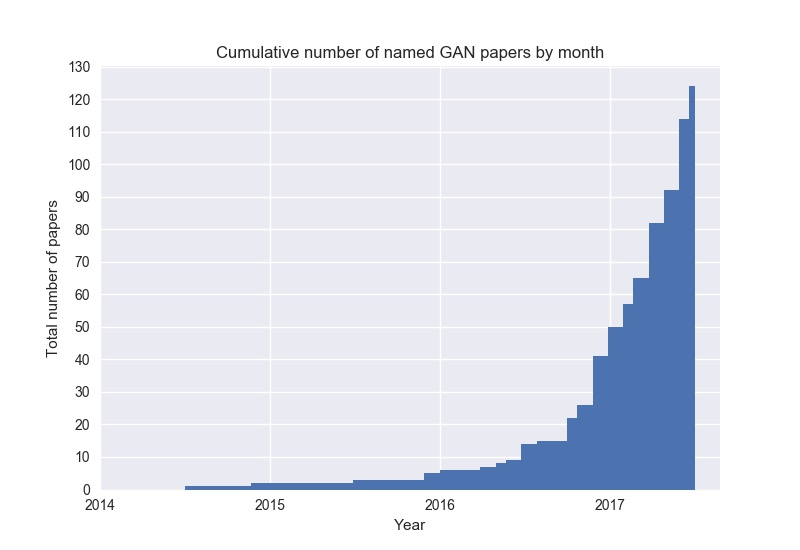
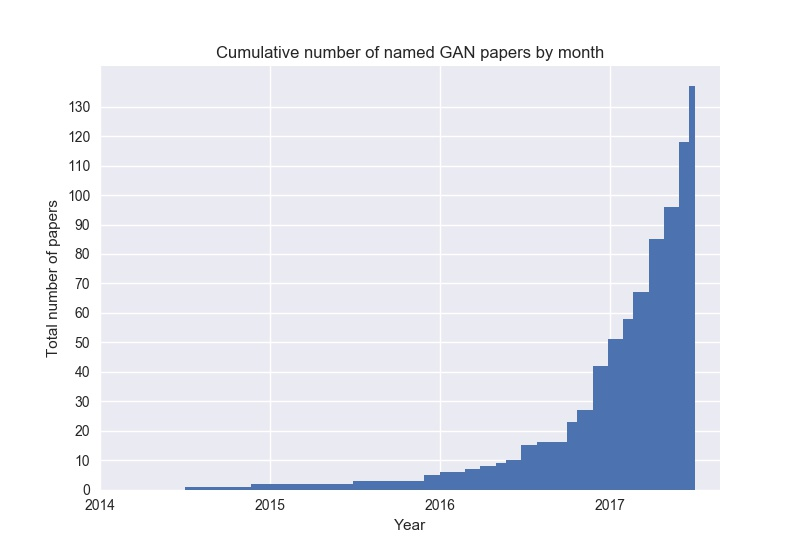
add 13 new GANs, add several code repositories in github
New GANs:
 * alphaGAN
 * Adversarially Regularized Autoencoder (ARAE)
 * Bayesian Conditional GAN (BC-GAN)
 * Creative Adversarial Networks (CAN)
 * channel-recurrent VAE-GAN (crVAE-GAN)
 * Chekhov GAN
 * Dualing GAN
 * Generative Recurrent Adversarial Network (GRAN)
 * Perceptual GAN
 * Steganographic GAN (SGAN)
 * Style Transfer GAN (ST-GAN)
 * Tandem Adversarial Networks (TAN)
 * TextureGAN

diff --git a/README.md b/README.md
@@ -20,23 +20,29 @@ Check out [Deep Hunt](https://deephunt.in) - my weekly AI newsletter for this re
 * AffGAN - [Amortised MAP Inference for Image Super-resolution](https://arxiv.org/abs/1610.04490)
 * AL-CGAN - [Learning to Generate Images of Outdoor Scenes from Attributes and Semantic Layouts](https://arxiv.org/abs/1612.00215)
 * ALI - [Adversarially Learned Inference](https://arxiv.org/abs/1606.00704)
+* aphaGAN - [Variational Approaches for Auto-Encoding Generative Adversarial Networks](https://arxiv.org/abs/1706.04987)
 * AM-GAN - [Generative Adversarial Nets with Labeled Data by Activation Maximization](https://arxiv.org/abs/1703.02000)
 * AnoGAN - [Unsupervised Anomaly Detection with Generative Adversarial Networks to Guide Marker Discovery](https://arxiv.org/abs/1703.05921v1)
+* ARAE - [Adversarially Regularized Autoencoders for Generating Discrete Structures](https://arxiv.org/abs/1706.04223)
 * ArtGAN - [ArtGAN: Artwork Synthesis with Conditional Categorial GANs](https://arxiv.org/abs/1702.03410)
 * b-GAN - [b-GAN: Unified Framework of Generative Adversarial Networks](https://openreview.net/pdf?id=S1JG13oee)
 * Bayesian GAN - [Deep and Hierarchical Implicit Models](https://arxiv.org/abs/1702.08896)
 * Bayesian GAN - [Bayesian GAN](https://arxiv.org/abs/1705.09558)
+* BCGAN - [Bayesian Conditional Generative Adverserial Networks](https://arxiv.org/abs/1706.05477)
 * BEGAN - [BEGAN: Boundary Equilibrium Generative Adversarial Networks](https://arxiv.org/abs/1703.10717v2)
 * BiGAN - [Adversarial Feature Learning](https://arxiv.org/abs/1605.09782v7)
 * BS-GAN - [Boundary-Seeking Generative Adversarial Networks](https://arxiv.org/abs/1702.08431v1)
 * C-RNN-GAN - [C-RNN-GAN: Continuous recurrent neural networks with adversarial training](https://arxiv.org/abs/1611.09904)
 * CaloGAN - [CaloGAN: Simulating 3D High Energy Particle Showers in Multi-Layer Electromagnetic Calorimeters with Generative Adversarial Networks](https://arxiv.org/abs/1705.02355)
+* CAN - [CAN: Creative Adversarial Networks, Generating "Art" by Learning About Styles and Deviating from Style Norms](https://arxiv.org/abs/1706.07068)
 * CatGAN - [Unsupervised and Semi-supervised Learning with Categorical Generative Adversarial Networks](https://arxiv.org/abs/1511.06390v2)
-* CCGAN - [Semi-Supervised Learning with Context-Conditional Generative Adversarial Networks](https://arxiv.org/abs/1611.06430v1)
+* CC-GAN - [Semi-Supervised Learning with Context-Conditional Generative Adversarial Networks](https://arxiv.org/abs/1611.06430v1)
 * CGAN - [Conditional Generative Adversarial Nets](https://arxiv.org/abs/1411.1784)
+* Chekhov GAN - [An Online Learning Approach to Generative Adversarial Networks](https://arxiv.org/abs/1706.03269)
 * CoGAN - [Coupled Generative Adversarial Networks](https://arxiv.org/abs/1606.07536v2)
 * Context-RNN-GAN - [Contextual RNN-GANs for Abstract Reasoning Diagram Generation](https://arxiv.org/abs/1609.09444)
 * Cramér GAN - [The Cramer Distance as a Solution to Biased Wasserstein Gradients](https://arxiv.org/abs/1705.10743)
+* crVAE-GAN - [Channel-Recurrent Variational Autoencoders](https://arxiv.org/abs/1706.03729)
 * CS-GAN - [Improving Neural Machine Translation with Conditional Sequence Generative Adversarial Nets](https://arxiv.org/abs/1703.04887)
 * CVAE-GAN - [CVAE-GAN: Fine-Grained Image Generation through Asymmetric Training](https://arxiv.org/abs/1703.10155)
 * CycleGAN - [Unpaired Image-to-Image Translation using Cycle-Consistent Adversarial Networks](https://arxiv.org/abs/1703.10593)
@@ -50,6 +56,7 @@ Check out [Deep Hunt](https://deephunt.in) - my weekly AI newsletter for this re
 * DSP-GAN - [Depth Structure Preserving Scene Image Generation](https://arxiv.org/abs/1706.00212)
 * DTN - [Unsupervised Cross-Domain Image Generation](https://arxiv.org/abs/1611.02200)
 * DualGAN - [DualGAN: Unsupervised Dual Learning for Image-to-Image Translation](https://arxiv.org/abs/1704.02510v1)
+* Dualing GAN - [Dualing GANs](https://arxiv.org/abs/1706.06216)
 * EBGAN - [Energy-based Generative Adversarial Network](https://arxiv.org/abs/1609.03126v4)
 * EGAN - [Enhanced Experience Replay Generation for Efficient Reinforcement Learning](https://arxiv.org/abs/1705.08245)
 * f-GAN - [f-GAN: Training Generative Neural Samplers using Variational Divergence Minimization](https://arxiv.org/abs/1606.00709)
@@ -64,7 +71,8 @@ Check out [Deep Hunt](https://deephunt.in) - my weekly AI newsletter for this re
 * Geometric GAN - [Geometric GAN](https://arxiv.org/abs/1705.02894)
 * GMAN - [Generative Multi-Adversarial Networks](http://arxiv.org/abs/1611.01673)
 * GoGAN - [Gang of GANs: Generative Adversarial Networks with Maximum Margin Ranking](https://arxiv.org/abs/1704.04865)
-* GP-GAN - [GP-GAN: Towards Realistic High-Resolution Image Blending](https://arxiv.org/abs/1703.07195v2)
+* GP-GAN - [GP-GAN: Towards Realistic High-Resolution Image Blending](https://arxiv.org/abs/1703.07195)
+* GRAN - [Generating images with recurrent adversarial networks](https://arxiv.org/abs/1602.05110)
 * IAN - [Neural Photo Editing with Introspective Adversarial Networks](https://arxiv.org/abs/1609.07093)
 * IcGAN - [Invertible Conditional GANs for image editing](https://arxiv.org/abs/1611.06355)
 * ID-CGAN - [Image De-raining Using a Conditional Generative Adversarial Network](https://arxiv.org/abs/1701.05957v3)
@@ -92,6 +100,7 @@ Check out [Deep Hunt](https://deephunt.in) - my weekly AI newsletter for this re
 * MPM-GAN - [Message Passing Multi-Agent GANs](https://arxiv.org/abs/1612.01294)
 * MV-BiGAN - [Multi-view Generative Adversarial Networks](https://arxiv.org/abs/1611.02019v1)
 * ORGAN - [Objective-Reinforced Generative Adversarial Networks (ORGAN) for Sequence Generation Models](https://arxiv.org/abs/1705.10843)
+* Perceptual GAN - [Perceptual Generative Adversarial Networks for Small Object Detection](https://arxiv.org/abs/1706.05274)
 * pix2pix - [Image-to-Image Translation with Conditional Adversarial Networks](https://arxiv.org/abs/1611.07004)
 * PixelGAN - [PixelGAN Autoencoders](https://arxiv.org/abs/1706.00531)
 * Pose-GAN - [The Pose Knows: Video Forecasting by Generating Pose Futures](https://arxiv.org/abs/1705.00053)
@@ -114,16 +123,20 @@ Check out [Deep Hunt](https://deephunt.in) - my weekly AI newsletter for this re
 * SeGAN - [SeGAN: Segmenting and Generating the Invisible](https://arxiv.org/abs/1703.10239)
 * SEGAN - [SEGAN: Speech Enhancement Generative Adversarial Network](https://arxiv.org/abs/1703.09452v1)
 * SeqGAN - [SeqGAN: Sequence Generative Adversarial Nets with Policy Gradient](https://arxiv.org/abs/1609.05473v5)
-* SGAN - [Stacked Generative Adversarial Networks](https://arxiv.org/abs/1612.04357v4)
+* SGAN - [Stacked Generative Adversarial Networks](https://arxiv.org/abs/1612.04357)
 * SGAN - [Texture Synthesis with Spatial Generative Adversarial Networks](https://arxiv.org/abs/1611.08207)
+* SGAN - [Steganographic Generative Adversarial Networks](https://arxiv.org/abs/1703.05502)
 * SimGAN - [Learning from Simulated and Unsupervised Images through Adversarial Training](https://arxiv.org/abs/1612.07828)
 * SketchGAN - [Adversarial Training For Sketch Retrieval](https://arxiv.org/abs/1607.02748)
 * SL-GAN - [Semi-Latent GAN: Learning to generate and modify facial images from attributes](https://arxiv.org/abs/1704.02166)
 * Softmax-GAN - [Softmax GAN](https://arxiv.org/abs/1704.06191)
 * SRGAN - [Photo-Realistic Single Image Super-Resolution Using a Generative Adversarial Network](https://arxiv.org/abs/1609.04802v3)
 * SSL-GAN - [Semi-Supervised Learning with Context-Conditional Generative Adversarial Networks](https://arxiv.org/abs/1611.06430v1)
-* StackGAN - [StackGAN: Text to Photo-realistic Image Synthesis with Stacked Generative Adversarial Networks](https://arxiv.org/abs/1612.03242v1)
-* TAC-GAN - [TAC-GAN - Text Conditioned Auxiliary Classifier Generative Adversarial Network](https://arxiv.org/abs/1703.06412v2)
+* ST-GAN - [Style Transfer Generative Adversarial Networks: Learning to Play Chess Differently](https://arxiv.org/abs/1702.06762)
+* StackGAN - [StackGAN: Text to Photo-realistic Image Synthesis with Stacked Generative Adversarial Networks](https://arxiv.org/abs/1612.03242)
+* TAC-GAN - [TAC-GAN - Text Conditioned Auxiliary Classifier Generative Adversarial Network](https://arxiv.org/abs/1703.06412)
+* TAN - [Outline Colorization through Tandem Adversarial Networks](https://arxiv.org/abs/1704.08834)
+* TextureGAN - [TextureGAN: Controlling Deep Image Synthesis with Texture Patches](https://arxiv.org/abs/1706.02823)
 * TGAN - [Temporal Generative Adversarial Nets](https://arxiv.org/abs/1611.06624v1)
 * TP-GAN - [Beyond Face Rotation: Global and Local Perception GAN for Photorealistic and Identity Preserving Frontal View Synthesis](https://arxiv.org/abs/1704.04086)
 * Triple-GAN - [Triple Generative Adversarial Nets](https://arxiv.org/abs/1703.02291v2)
